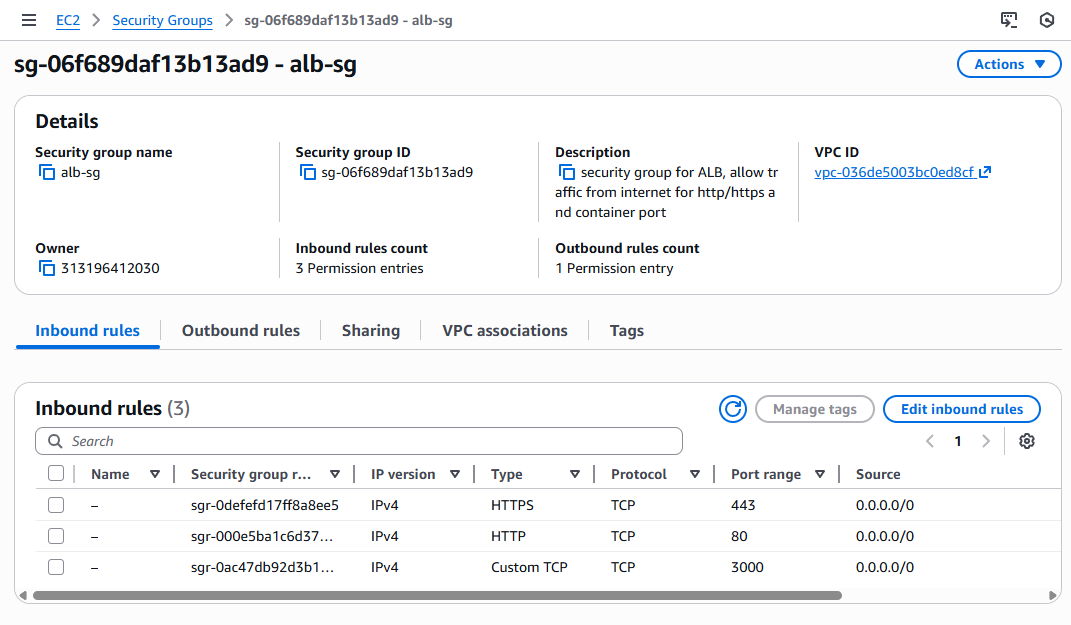
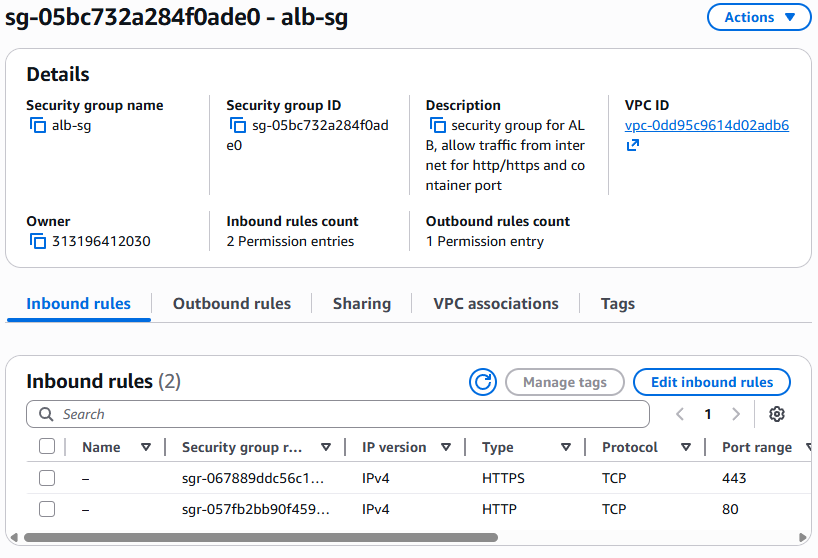
changed sg-alb image and readme for sg part

diff --git a/README.md b/README.md
@@ -8,7 +8,7 @@ I containerised an open-source application using Docker to ensure consistent beh
 
 I initially deployed the infrastructure using AWS ClickOps, then tore everything down and rebuilt it using Terraform as Infrastructure as Code. I configured the AWS provider and structured the setup using reusable modules.
 
-I built a VPC across two availability zones with public and private subnets, route tables, an internet gateway, and NAT gateways. I created security groups so the ALB accepts HTTP, HTTPS, and container port traffic from the internet, while ECS tasks only accept traffic from the load balancer on port 3000, preventing direct internet access.
+I built a VPC across two availability zones with public and private subnets, route tables, an internet gateway, and NAT gateways. I created security groups so the ALB accepts HTTP and HTTPS traffic from the internet, while ECS tasks only accept traffic from the load balancer on port 3000, preventing direct internet access.
 
 I set up an Application Load Balancer with listeners, target groups across private subnets, and enforced HTTP to HTTPS redirection. I used Route 53 and ACM to point my domain to the ALB and enable SSL/TLS.
 
@@ -77,7 +77,7 @@ infra
 
 ## Security Group for ALB
 
-The security group for the load balancer allows incomming HTTP, HTTPS, and the docker image container port traffic from the IPv4 internet (0.0.0.0/0)
+The security group for the load balancer allows incomming HTTP and HTTPS traffic from the IPv4 internet (0.0.0.0/0)
 
 <img src="./readme-images/sg-alb.png">
 
